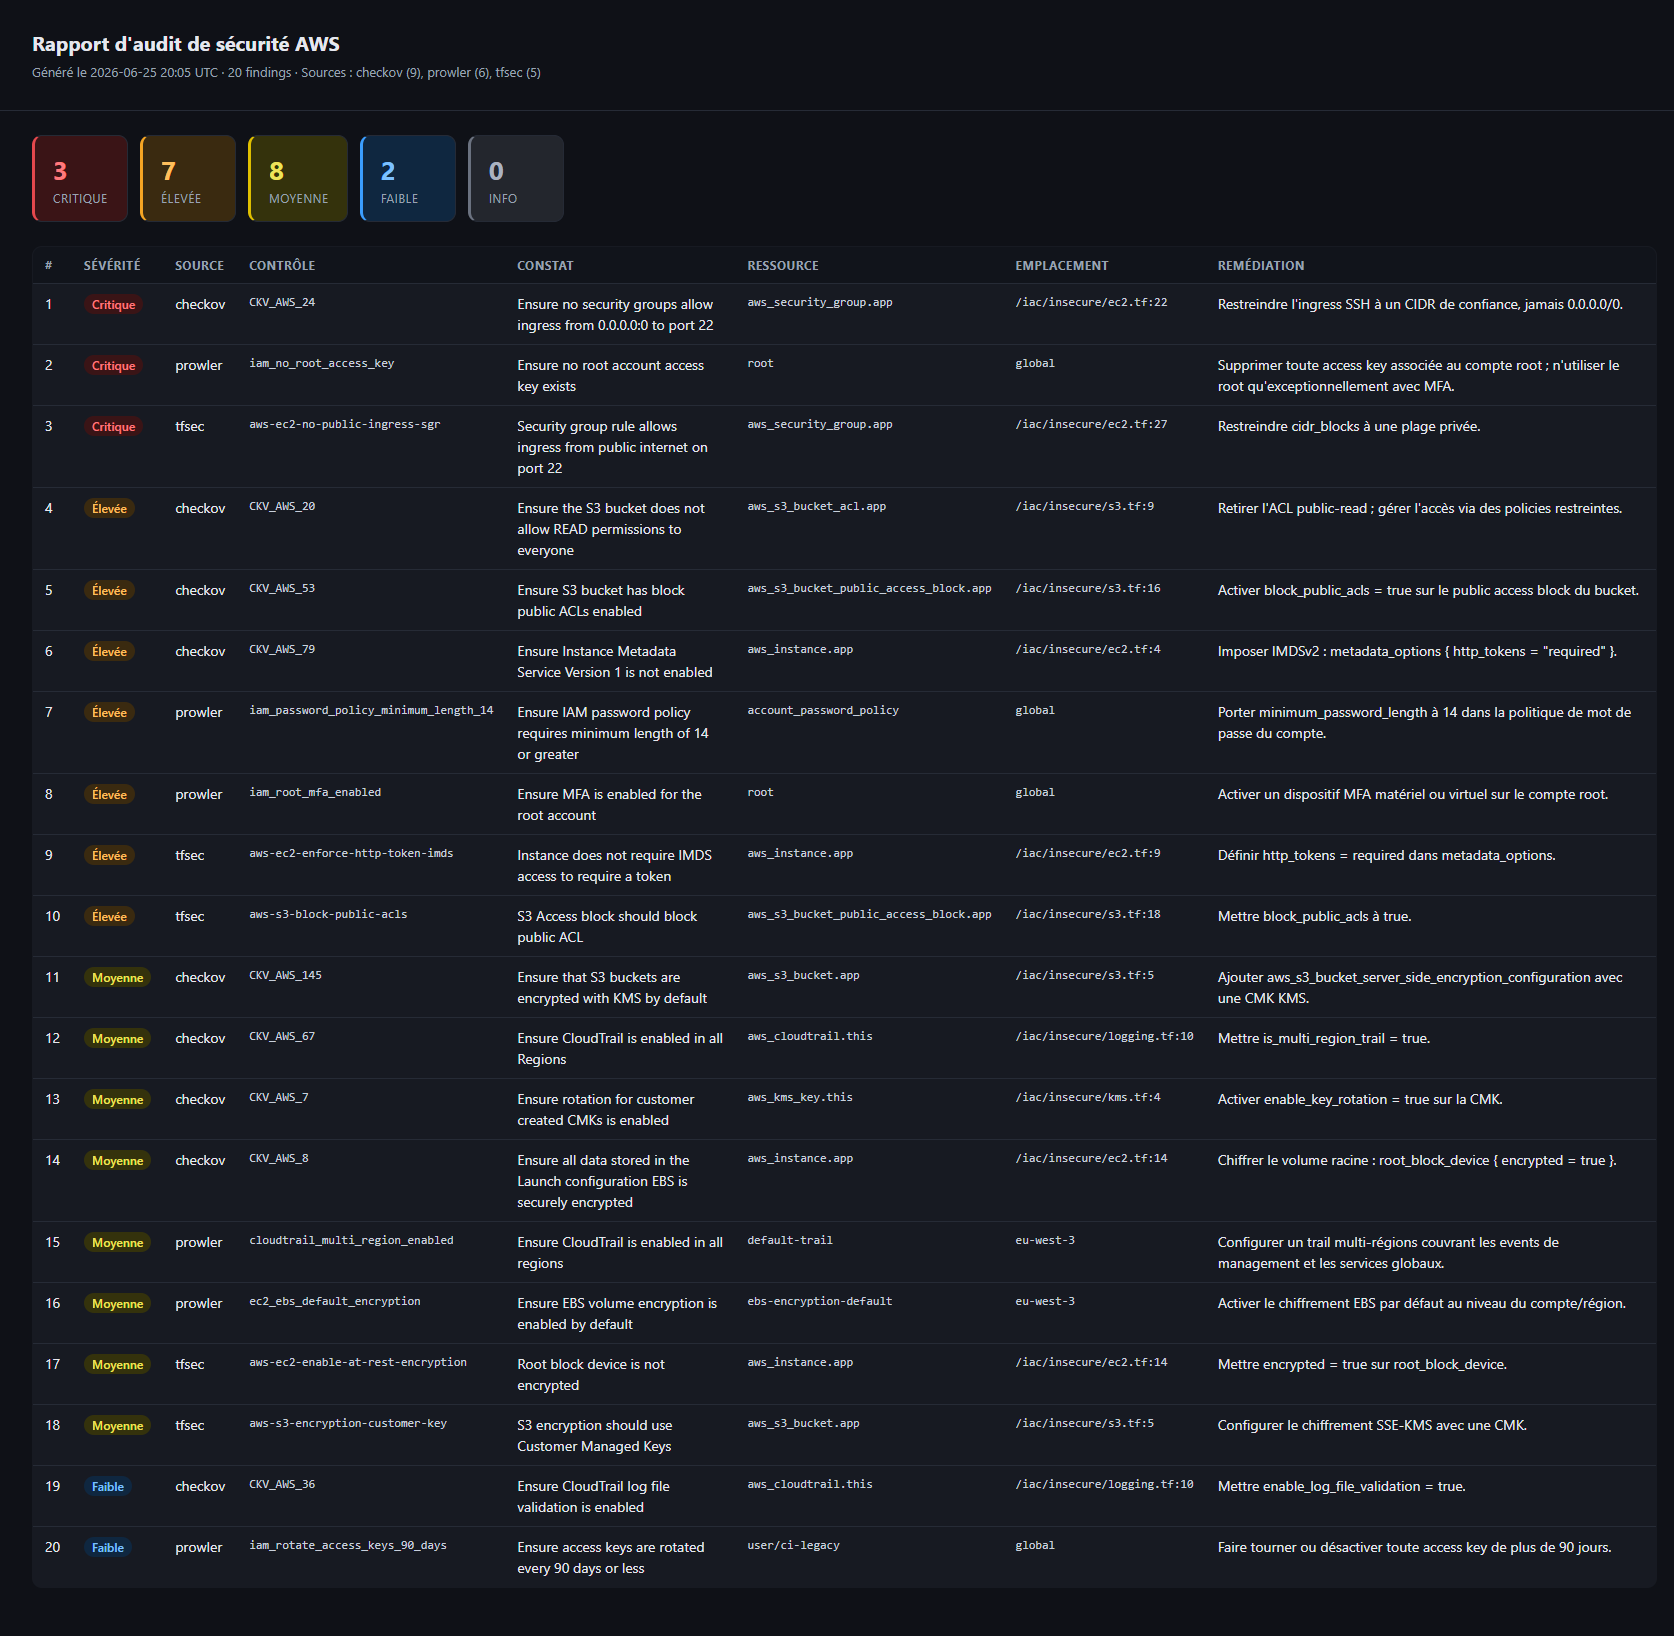
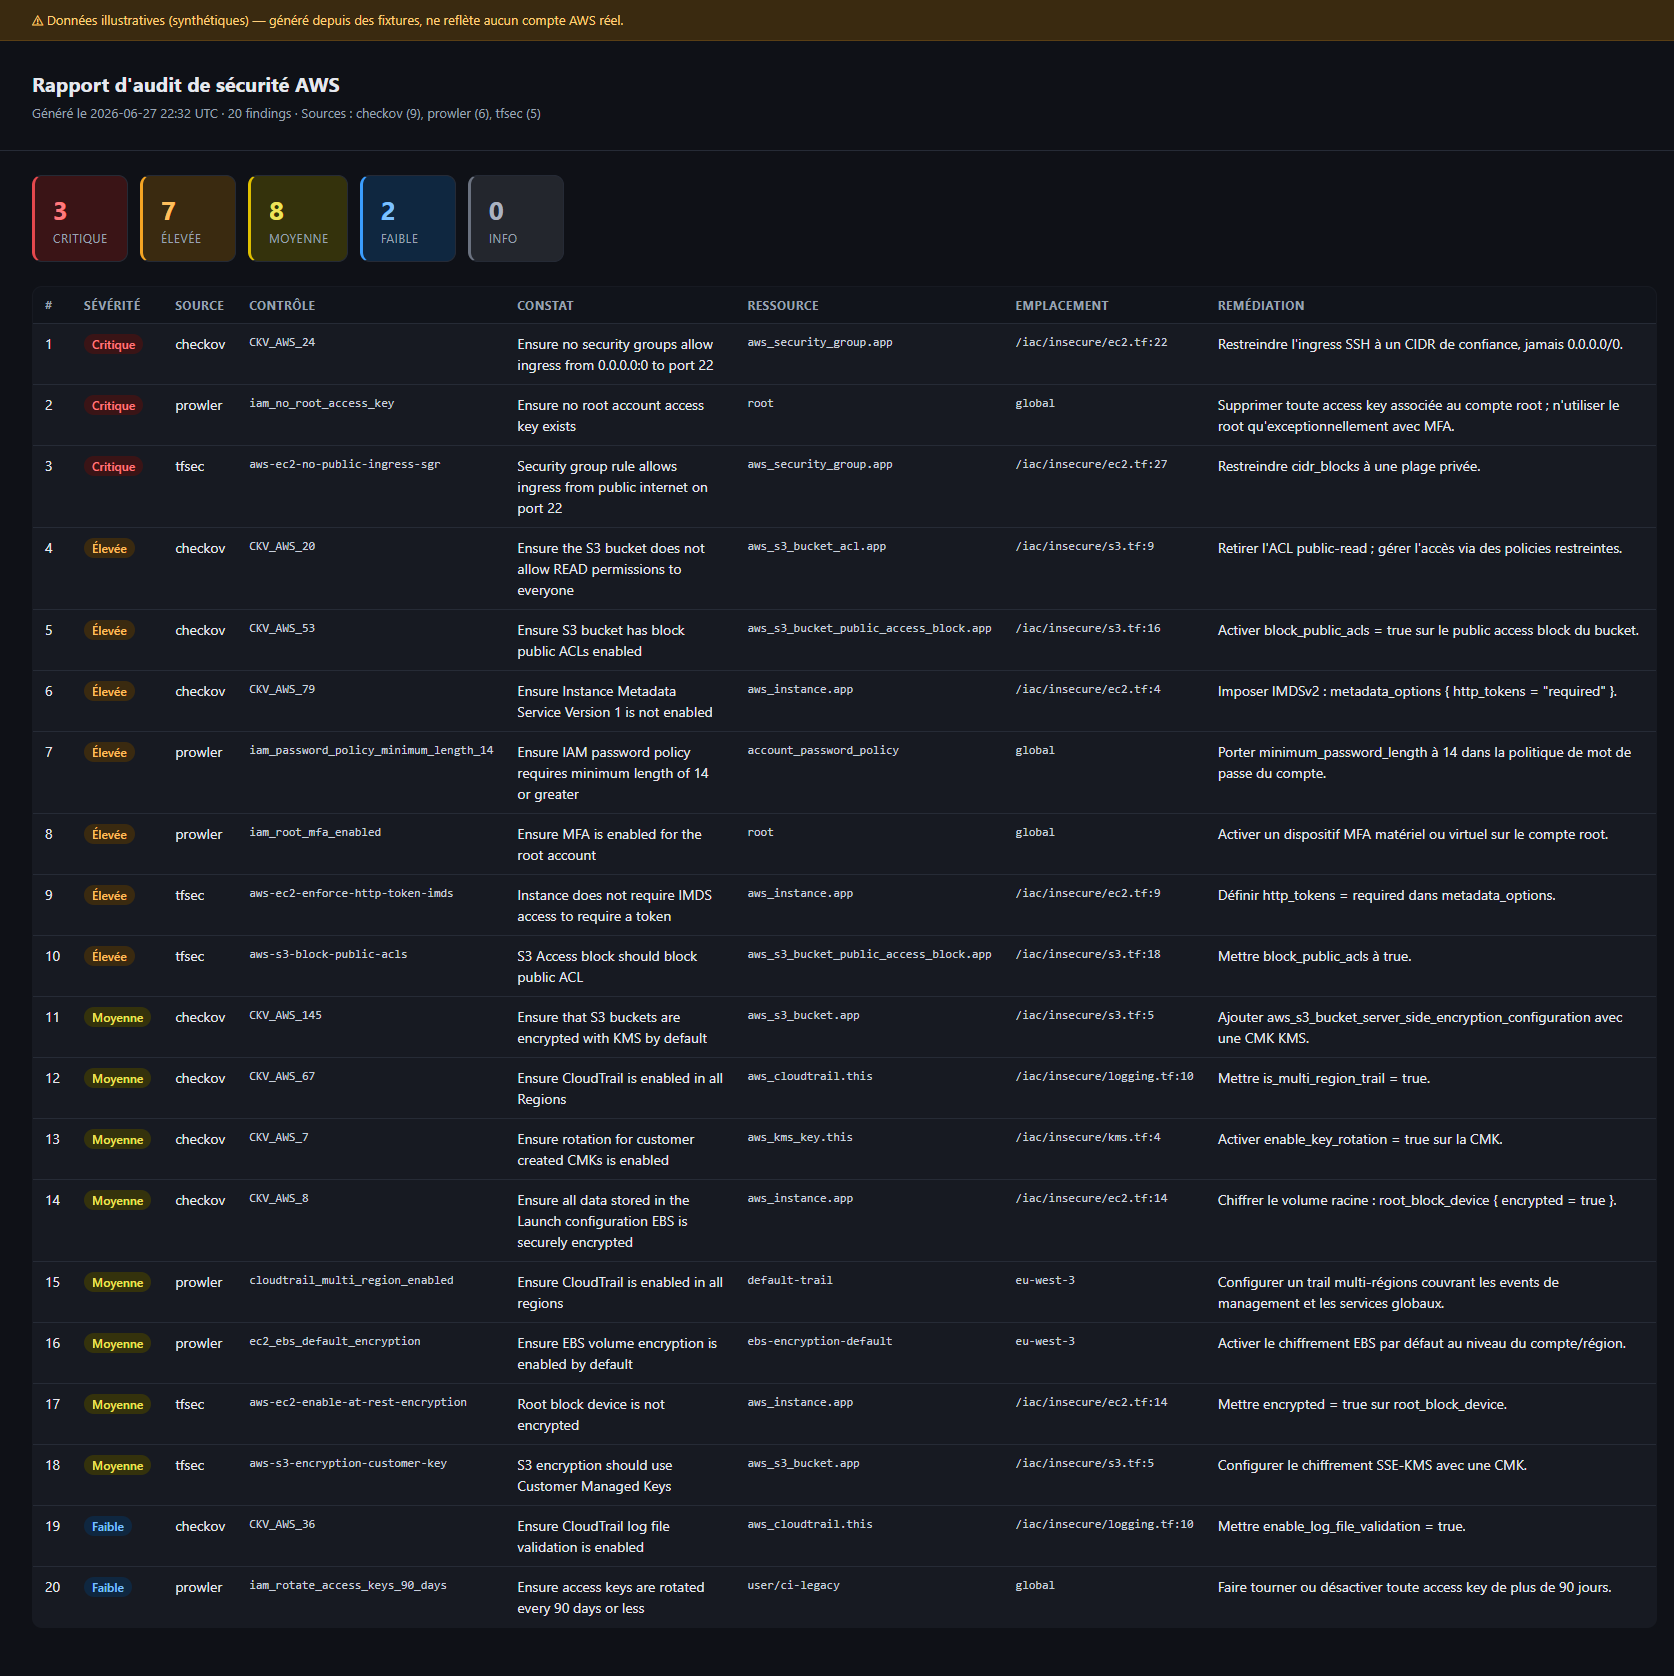
Durcit le parser OCSF Prowler et marque les rapports illustratifs (--synthetic)

diff --git a/reports/sample/report.html b/reports/sample/report.html
@@ -33,12 +33,14 @@
   .sev-low { background:#0f2740; color:#7cc0ff; }
   .sev-info { background:#23262d; color:#aab2c0; }
   td .sev { white-space:nowrap; }
+  .syn { background:#3a2a10; color:#ffce7a; border-bottom:1px solid #5a3f15; padding:10px 32px; font-size:13px; }
 </style>
 </head>
 <body>
+<div class='syn'>⚠ Données illustratives (synthétiques) — généré depuis des fixtures, ne reflète aucun compte AWS réel.</div>
 <header>
   <h1>Rapport d'audit de sécurité AWS</h1>
-  <div class="meta">Généré le 2026-06-25 20:05 UTC &middot; 20 findings &middot; Sources : checkov (9), prowler (6), tfsec (5)</div>
+  <div class="meta">Généré le 2026-06-27 22:32 UTC &middot; 20 findings &middot; Sources : checkov (9), prowler (6), tfsec (5)</div>
 </header>
 <div class="cards"><div class='card sev-critical'><div class='n'>3</div><div class='l'>Critique</div></div><div class='card sev-high'><div class='n'>7</div><div class='l'>Élevée</div></div><div class='card sev-medium'><div class='n'>8</div><div class='l'>Moyenne</div></div><div class='card sev-low'><div class='n'>2</div><div class='l'>Faible</div></div><div class='card sev-info'><div class='n'>0</div><div class='l'>Info</div></div></div>
 <div class="wrap">

diff --git a/scripts/generate_report.py b/scripts/generate_report.py
@@ -27,15 +27,22 @@ SEVERITY_LABEL = {
 }
 
 
-def norm_severity(value: str | None) -> str:
-    if not value:
+# OCSF severity_id (0..6) — utilisé par Prowler quand le libellé texte est absent.
+SEVERITY_ID_MAP = {0: "info", 1: "info", 2: "low", 3: "medium", 4: "high", 5: "critical", 6: "critical"}
+
+
+def norm_severity(value) -> str:
+    if value is None or value == "":
         return "medium"
+    if isinstance(value, (int, float)) or (isinstance(value, str) and value.isdigit()):
+        return SEVERITY_ID_MAP.get(int(value), "medium")
     v = str(value).strip().lower()
     aliases = {
         "informational": "info",
         "moderate": "medium",
         "warning": "low",
         "error": "high",
+        "fatal": "critical",
         "critical": "critical",
         "high": "high",
         "medium": "medium",
@@ -99,28 +106,56 @@ def parse_tfsec(data) -> list[dict]:
 
 
 def parse_prowler_ocsf(data) -> list[dict]:
-    """Prowler --output-formats json-ocsf : liste de findings OCSF."""
+    """Prowler --output-formats json-ocsf : liste de findings OCSF.
+
+    Tolérant aux variations de schéma entre versions de Prowler : l'identifiant de
+    check, la sévérité et la ressource sont cherchés à plusieurs emplacements connus.
+    """
     findings = []
     for item in data or []:
         if not isinstance(item, dict):
             continue
-        if str(item.get("status_code", "")).upper() not in ("FAIL", "FAILED"):
+        # Statut : ne garder que les échecs. status_code (FAIL/PASS) prioritaire ;
+        # status (New/Suppressed) ne doit pas être confondu avec le résultat.
+        status = str(item.get("status_code") or item.get("status") or "").upper()
+        if status not in ("FAIL", "FAILED"):
             continue
+
         info = item.get("finding_info", {}) or {}
+        meta = item.get("metadata", {}) or {}
         rem = item.get("remediation", {}) or {}
-        resources = item.get("resources", []) or []
-        res_name = resources[0].get("name") or resources[0].get("uid") if resources else ""
         unmapped = item.get("unmapped", {}) or {}
+        resources = item.get("resources", []) or []
+        res0 = resources[0] if resources else {}
+
+        # Identifiant de contrôle : event_code (OCSF récent) -> unmapped -> uid.
+        control = (
+            meta.get("event_code")
+            or unmapped.get("check_id")
+            or info.get("uid")
+            or (info.get("title", "")[:40])
+        )
+        # Sévérité : libellé texte sinon severity_id numérique.
+        severity = item.get("severity")
+        if severity in (None, "") and "severity_id" in item:
+            severity = item.get("severity_id")
+
+        title = info.get("title") or item.get("risk_details") or control
+        resource = res0.get("name") or res0.get("uid") or ""
+        region = res0.get("region") or (item.get("cloud", {}) or {}).get("region") or "aws"
+        remediation = rem.get("desc") or "; ".join(rem.get("references", []) or []) \
+            or "Voir la recommandation Prowler/CIS."
+
         findings.append(
             {
                 "source": "prowler",
-                "severity": norm_severity(item.get("severity")),
-                "control": unmapped.get("check_id") or info.get("title", "")[:40],
-                "title": info.get("title", ""),
-                "resource": res_name or "",
-                "location": (resources[0].get("region") if resources else "") or "aws",
+                "severity": norm_severity(severity),
+                "control": control,
+                "title": title,
+                "resource": resource,
+                "location": region,
                 "status": "fail",
-                "remediation": rem.get("desc") or "Voir la recommandation Prowler/CIS.",
+                "remediation": remediation,
             }
         )
     return findings
@@ -174,7 +209,7 @@ def summarize(findings: list[dict]) -> dict:
 
 
 # --- Rendu --------------------------------------------------------------------
-def render_html(findings: list[dict], summary: dict, generated: str) -> str:
+def render_html(findings: list[dict], summary: dict, generated: str, synthetic: bool = False) -> str:
     rows = []
     for i, f in enumerate(findings, 1):
         sev = f["severity"]
@@ -205,19 +240,34 @@ def render_html(findings: list[dict], summary: dict, generated: str) -> str:
         for s in SEVERITY_ORDER
     )
     sources = ", ".join(f"{k} ({v})" for k, v in sorted(summary["by_source"].items())) or "—"
+    banner = (
+        "<div class='syn'>⚠ Données illustratives (synthétiques) — généré depuis des fixtures, "
+        "ne reflète aucun compte AWS réel.</div>"
+        if synthetic
+        else ""
+    )
     return TEMPLATE.format(
         generated=html.escape(generated),
         total=summary["total"],
         sources=html.escape(sources),
         cards=cards,
+        banner=banner,
         rows="\n".join(rows) or "<tr><td colspan='8'>Aucun finding.</td></tr>",
     )
 
 
-def render_remediation(findings: list[dict], summary: dict, generated: str) -> str:
+def render_remediation(findings: list[dict], summary: dict, generated: str, synthetic: bool = False) -> str:
     lines = [
         "# Grille de remédiation priorisée",
         "",
+    ]
+    if synthetic:
+        lines += [
+            "> ⚠️ **Données illustratives (synthétiques)** — générées depuis des fixtures de démonstration.",
+            "> Ne reflète aucun compte AWS réel.",
+            "",
+        ]
+    lines += [
         f"_Généré le {generated}. Total : {summary['total']} findings._",
         "",
         "| # | Sévérité | Source | Contrôle | Ressource | Impact / constat | Correctif |",
@@ -241,6 +291,8 @@ def main() -> int:
     ap.add_argument("--checkov", action="append", default=[], help="Fichier JSON Checkov explicite.")
     ap.add_argument("--tfsec", action="append", default=[], help="Fichier JSON tfsec explicite.")
     ap.add_argument("--prowler", action="append", default=[], help="Fichier JSON OCSF Prowler explicite.")
+    ap.add_argument("--synthetic", action="store_true",
+                    help="Marque le rapport comme illustratif (fixtures, hors compte réel).")
     args = ap.parse_args()
 
     out_dir = args.output_dir or args.report_dir
@@ -253,12 +305,13 @@ def main() -> int:
     generated = datetime.now(timezone.utc).strftime("%Y-%m-%d %H:%M UTC")
 
     with open(os.path.join(out_dir, "findings.json"), "w", encoding="utf-8") as fh:
-        json.dump({"generated": generated, "summary": summary, "findings": findings}, fh,
+        json.dump({"generated": generated, "synthetic": args.synthetic,
+                   "summary": summary, "findings": findings}, fh,
                   indent=2, ensure_ascii=False)
     with open(os.path.join(out_dir, "report.html"), "w", encoding="utf-8") as fh:
-        fh.write(render_html(findings, summary, generated))
+        fh.write(render_html(findings, summary, generated, args.synthetic))
     with open(os.path.join(out_dir, "remediation.md"), "w", encoding="utf-8") as fh:
-        fh.write(render_remediation(findings, summary, generated))
+        fh.write(render_remediation(findings, summary, generated, args.synthetic))
 
     print(f"{summary['total']} findings -> {out_dir}/findings.json, report.html, remediation.md")
     return 0
@@ -299,9 +352,11 @@ TEMPLATE = """<!doctype html>
   .sev-low {{ background:#0f2740; color:#7cc0ff; }}
   .sev-info {{ background:#23262d; color:#aab2c0; }}
   td .sev {{ white-space:nowrap; }}
+  .syn {{ background:#3a2a10; color:#ffce7a; border-bottom:1px solid #5a3f15; padding:10px 32px; font-size:13px; }}
 </style>
 </head>
 <body>
+{banner}
 <header>
   <h1>Rapport d'audit de sécurité AWS</h1>
   <div class="meta">Généré le {generated} &middot; {total} findings &middot; Sources : {sources}</div>

diff --git a/reports/sample/remediation.md b/reports/sample/remediation.md
@@ -1,6 +1,9 @@
 # Grille de remédiation priorisée
 
-_Généré le 2026-06-25 20:05 UTC. Total : 20 findings._
+> ⚠️ **Données illustratives (synthétiques)** — générées depuis des fixtures de démonstration.
+> Ne reflète aucun compte AWS réel.
+
+_Généré le 2026-06-27 22:32 UTC. Total : 20 findings._
 
 | # | Sévérité | Source | Contrôle | Ressource | Impact / constat | Correctif |
 |---|----------|--------|----------|-----------|------------------|-----------|